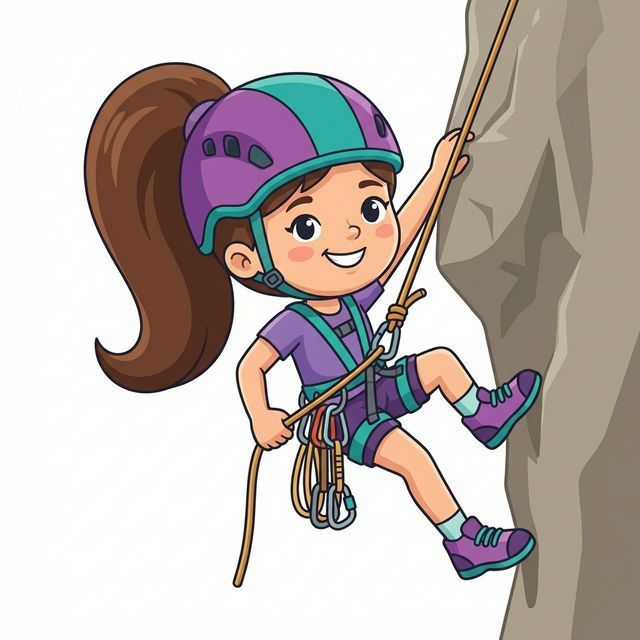
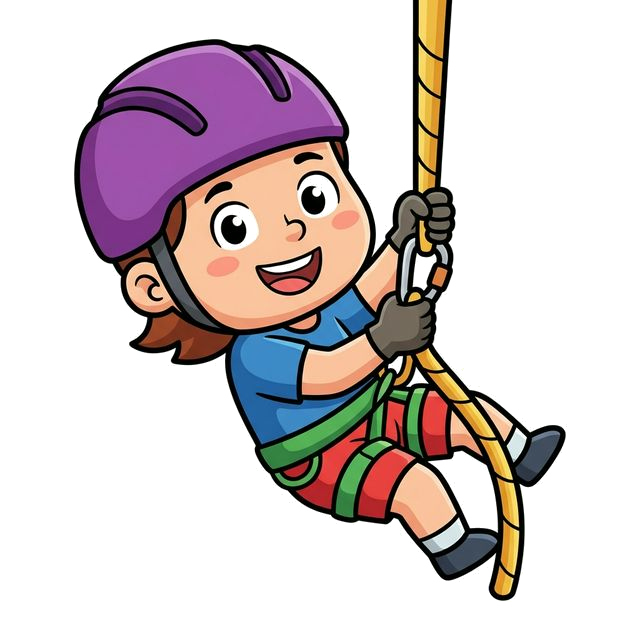
Differentiate mini-games by location, overhaul cartoon characters, and fix asset transparency

diff --git a/src/App.jsx b/src/App.jsx
@@ -255,7 +255,8 @@ export default function App() {
 
   const handleKeyDown = useCallback((e) => {
     // Only allow movement if character is selected
-    if (e.code === 'Space' && !isModalOpen && !victory && !isClimbing && character) {
+    const movementKeys = ['Space', 'ArrowUp', 'ArrowRight', 'ArrowLeft', 'ArrowDown'];
+    if (movementKeys.includes(e.code) && !isModalOpen && !victory && !isClimbing && character) {
       e.preventDefault(); // Prevent scrolling
 
       const nextStep = step + 1;
@@ -328,12 +329,13 @@ export default function App() {
       setIsGameOver(true);
       setCelebrationEffect('failure_anvil');
 
-      // Failure sequence: Anvil drops, wait 3s, then reset game
+      // Failure sequence: Camera shake + Anvil drops, wait 5s, then reset game
+      // Longer wait to see the "squashed" death state clearly
       setTimeout(() => {
         restartGame();
         setIsGameOver(false);
         setCelebrationEffect(null);
-      }, 4000);
+      }, 5000);
 
       setTimeout(() => setIsError(false), 500);
     }
@@ -348,15 +350,15 @@ export default function App() {
     setLocation(null); // Go back to location selection
   };
 
-  // Mini-Game Loop
+  // Mini-Game Loop: Location-Specific Mechanics
   useEffect(() => {
     if (activeMiniGame !== 'gems') return;
 
-    const timer = setInterval(() => {
+    // Movement/Physics Logic
+    const gameTimer = setInterval(() => {
       setMiniGameTime(prev => {
         if (prev <= 0.1) {
-          clearInterval(timer);
-          // Finish game
+          clearInterval(gameTimer);
           setTimeout(() => {
             setActiveMiniGame(null);
             setGems([]);
@@ -366,47 +368,79 @@ export default function App() {
         return prev - 0.1;
       });
 
-      // Spawn Gems (Themed Items)
-      if (Math.random() < 0.2) {
-        setGems(prev => [...prev, {
-          id: Math.random(),
-          src: locationItemMap[location] || '/gem.png',
-          x: Math.random() * 90 + 5,
-          y: -10,
-          speed: Math.random() * 2 + 1.5
-        }]);
-      }
+      setGems(prev => prev.map(gem => {
+        let { x, y, vx, vy, scale } = gem;
 
-      // Move Gems
-      setGems(prev => {
-        return prev.map(gem => ({
-          ...gem,
-          y: gem.y + gem.speed
-        })).filter(gem => gem.y < 110);
-      });
-    }, 100);
-
-    return () => clearInterval(timer);
-  }, [activeMiniGame]);
-
-  // Catch Collision Detection
-  useEffect(() => {
-    if (activeMiniGame !== 'gems') return;
-
-    setGems(prev => {
-      let hit = false;
-      const filtered = prev.filter(gem => {
-        // Simple hit box check
-        const isHit = gem.y > 80 && gem.y < 95 && Math.abs(gem.x - catcherX) < 10;
-        if (isHit) {
-          hit = true;
-          setMiniGameScore(s => s + 10);
+        // Ocean: Rise Up
+        if (location === 'ocean') {
+          y += vy;
         }
-        return !isHit;
-      });
-      return filtered;
-    });
-  }, [catcherX, gems, activeMiniGame]);
+        // Space/Sky/City: Drift Across
+        else if (['space', 'sky', 'city'].includes(location)) {
+          x += vx;
+          y += vy;
+        }
+        // Candy/Castle/Desert: Shrink
+        else if (['candy', 'castle', 'desert'].includes(location)) {
+          scale -= 0.01;
+        }
+
+        return { ...gem, x, y, scale };
+      }).filter(gem => {
+        // Filter out items that leave the screen or vanish
+        if (gem.scale <= 0.1) return false;
+        if (gem.y < -20 || gem.y > 120 || gem.x < -20 || gem.x > 120) return false;
+        return true;
+      }));
+    }, 50);
+
+    const spawnInterval = setInterval(() => {
+      const spawnRate = 0.7;
+      if (Math.random() < spawnRate) {
+        let x, y, vx = 0, vy = 0, scale = 1;
+
+        if (location === 'ocean') {
+          // Bubbles start at bottom
+          x = Math.random() * 80 + 10;
+          y = 110;
+          vy = -(Math.random() * 0.8 + 0.4);
+        } else if (['space', 'sky', 'city'].includes(location)) {
+          // Stars drift from left or right
+          const fromLeft = Math.random() > 0.5;
+          x = fromLeft ? -10 : 110;
+          y = Math.random() * 70 + 10;
+          vx = fromLeft ? (Math.random() * 0.5 + 0.2) : -(Math.random() * 0.5 + 0.2);
+          vy = (Math.random() - 0.5) * 0.2;
+        } else {
+          // Default: Blitz or Rush
+          x = Math.random() * 80 + 10;
+          y = Math.random() * 60 + 20;
+          if (['candy', 'castle', 'desert'].includes(location)) {
+            scale = 1.2;
+          }
+        }
+
+        const newGem = { id: Math.random(), src: locationItemMap[location] || '/gem.png', x, y, vx, vy, scale };
+        setGems(prev => [...prev, newGem]);
+
+        if (['mountain', 'volcano', 'jungle'].includes(location)) {
+          setTimeout(() => {
+            setGems(prev => prev.filter(g => g.id !== newGem.id));
+          }, 1500);
+        }
+      }
+    }, 600);
+
+    return () => {
+      clearInterval(gameTimer);
+      clearInterval(spawnInterval);
+    };
+  }, [activeMiniGame, location]);
+
+  const handleGemClick = (gemId) => {
+    setMiniGameScore(s => s + 50);
+    setGems(prev => prev.filter(g => g.id !== gemId));
+  };
 
   // Mini-Game Controls
   useEffect(() => {
@@ -431,6 +465,7 @@ export default function App() {
   };
 
   const characters = [
+    { id: 'girl', name: 'Climber', src: '/girl.png' },
     { id: 'mountain_goat', name: 'Goat', src: '/mountain_goat.png', location: 'mountain' },
     { id: 'flame_golem', name: 'Golem', src: '/flame_golem.png', location: 'volcano' },
     { id: 'emerald_monkey', name: 'Monkey', src: '/emerald_monkey.png', location: 'jungle' },
@@ -476,9 +511,8 @@ export default function App() {
 
               const handleLocationSelect = () => {
                 setLocation(loc.id);
-                // Auto-pick character (1:1 match)
-                const match = characters.find(c => c.location === loc.id);
-                setCharacter(match ? match.id : characters[0].id);
+                // Allow user to pick their character
+                setCharacter(null);
               };
 
               return (
@@ -555,8 +589,8 @@ export default function App() {
                 onClick={() => setCharacter(char.id)}
                 className="group flex flex-col items-center gap-4 relative w-full"
               >
-                <div className="w-32 h-32 bg-white/10 backdrop-blur-md rounded-2xl flex items-center justify-center p-2 border border-white/20 group-hover:border-cyan-400 group-hover:bg-cyan-500/20 group-hover:shadow-[0_0_30px_rgba(34,211,238,0.5)] transition-all duration-300">
-                  <img src={char.src} alt={char.name} className="w-full h-full object-contain filter drop-shadow-lg" />
+                <div className="w-32 h-32 bg-white/20 backdrop-blur-md rounded-2xl flex items-center justify-center p-2 border border-white/20 group-hover:border-cyan-400 group-hover:bg-cyan-500/20 group-hover:shadow-[0_0_30px_rgba(34,211,238,0.5)] transition-all duration-300 overflow-hidden">
+                  <img src={char.src} alt={char.name} className="w-full h-full object-contain filter drop-shadow-xl" />
                 </div>
                 <span className="text-xl font-bold text-gray-200 group-hover:text-cyan-300 transition-colors uppercase tracking-wider">{char.name}</span>
               </motion.button>
@@ -582,7 +616,7 @@ export default function App() {
         } : {}}
       />
 
-      <div className="absolute inset-0 z-0 pointer-events-none" style={{ isolation: 'isolate' }}>
+      <div className="absolute inset-0 z-0 pointer-events-none" style={{ isolation: 'auto' }}>
         {/* Climber */}
         <motion.div
           className="absolute w-24 h-24 z-10"
@@ -594,14 +628,16 @@ export default function App() {
           <img
             src={`/${character}.png`}
             alt="Climber"
-            className="w-full h-full object-contain mix-blend-multiply brightness-[1.1] contrast-[1.1]"
+            className={clsx(
+              "w-full h-full object-contain",
+              isGameOver && "grayscale-[1] brightness-[0.3]"
+            )}
             style={isGameOver ? {
               position: 'relative',
               top: '50%',
-              transform: 'scaleY(0.05) translateY(100%)',
+              transform: 'scaleY(0.12) translateY(300%)',
               opacity: 0.9,
-              filter: 'grayscale(1) brightness(0.5)',
-              transition: 'all 0.1s ease-out'
+              transition: 'all 0.15s cubic-bezier(0.175, 0.885, 0.32, 1.275)'
             } : {}}
           />
         </motion.div>
@@ -627,10 +663,10 @@ export default function App() {
                   animate={{ y: "45vh" }}
                   exit={{ opacity: 0 }}
                   transition={{
-                    y: { type: 'spring', stiffness: 200, damping: 15 },
-                    duration: 0.6
+                    y: { type: 'spring', stiffness: 400, damping: 10 },
+                    duration: 0.4
                   }}
-                  className="absolute w-64 h-64 object-contain z-50 mix-blend-multiply brightness-[1.1] contrast-[1.1]"
+                  className="absolute w-72 h-72 object-contain z-50 mix-blend-multiply brightness-[1.1] contrast-[1.1]"
                 />
                 <motion.div
                   initial={{ scale: 0, opacity: 0 }}
@@ -638,11 +674,11 @@ export default function App() {
                   transition={{ delay: 0.5 }}
                   className="absolute inset-0 flex flex-col items-center justify-center z-[60] pointer-events-none"
                 >
-                  <h2 className="text-8xl font-black text-white drop-shadow-[0_10px_10px_rgba(0,0,0,0.8)] animate-bounce">
-                    GAME OVER
+                  <h2 className="text-8xl font-black text-white drop-shadow-[0_10px_20px_rgba(0,0,0,1)] animate-bounce italic">
+                    WHACKED!
                   </h2>
-                  <p className="text-4xl font-bold text-red-500 bg-black/40 px-6 py-2 rounded-full mt-4">
-                    TRY AGAIN!
+                  <p className="text-4xl font-bold text-red-500 bg-black/60 px-8 py-3 rounded-full mt-6 backdrop-blur-sm border-2 border-red-500/30">
+                    GET SLAMMED!
                   </p>
                 </motion.div>
               </>
@@ -661,7 +697,7 @@ export default function App() {
                       rotate: 360 * (Math.random() > 0.5 ? 1 : -1)
                     }}
                     transition={{ duration: 2 + Math.random(), delay: i * 0.1, ease: "linear" }}
-                    className="absolute w-28 h-28 object-contain mix-blend-multiply brightness-[1.1] contrast-[1.1]"
+                    className="absolute w-28 h-28 object-contain pointer-events-none"
                   />
                 ))}
               </div>
@@ -880,34 +916,33 @@ export default function App() {
               </div>
             </div>
 
-            {/* Gems (Themed Items) */}
-            {gems.map(gem => (
-              <motion.img
-                key={gem.id}
-                src={gem.src}
-                className="absolute w-20 h-20 object-contain z-10 mix-blend-multiply brightness-[1.15] contrast-[1.2]"
-                style={{ left: gem.x + "%", top: gem.y + "%" }}
-              />
-            ))}
-
-            {/* Player / Catcher */}
-            <motion.div
-              className="absolute bottom-10 w-32 h-32 z-20 flex flex-col items-center"
-              animate={{ left: catcherX + "%" }}
-              transition={{ type: 'spring', stiffness: 300, damping: 30 }}
-              style={{ x: "-50%" }}
-            >
-              <img
-                src={`/${character}.png`}
-                alt="Catcher"
-                className="w-full h-full object-contain filter drop-shadow-lg mix-blend-multiply brightness-[1.1] contrast-[1.1]"
-              />
-              <div className="w-110% h-4 bg-cyan-400/30 blur-md rounded-full mt-[-10px]" />
-            </motion.div>
+            {/* Gems (Blitz Items) */}
+            <div className="absolute inset-0 z-10">
+              <AnimatePresence>
+                {gems.map(gem => (
+                  <motion.img
+                    key={gem.id}
+                    src={gem.src}
+                    initial={{ scale: 0, opacity: 0, rotate: -45 }}
+                    animate={{ scale: 1.2, opacity: 1, rotate: 0 }}
+                    exit={{ scale: 0, opacity: 0, rotate: 45 }}
+                    whileHover={{ scale: 1.4 }}
+                    whileTap={{ scale: 0.8 }}
+                    onClick={() => handleGemClick(gem.id)}
+                    className="absolute w-24 h-24 object-contain cursor-pointer drop-shadow-[0_0_15px_rgba(255,255,255,0.5)] active:brightness-150"
+                    style={{
+                      left: gem.x + "%",
+                      top: gem.y + "%",
+                      transform: `scale(${gem.scale || 1})`
+                    }}
+                  />
+                ))}
+              </AnimatePresence>
+            </div>
 
             {/* Controls Info */}
-            <div className="absolute bottom-4 left-1/2 -translate-x-1/2 text-white/40 font-bold uppercase tracking-[0.2em] text-xs">
-              Use Left & Right Arrows to Move
+            <div className="absolute bottom-10 left-1/2 -translate-x-1/2 text-cyan-400 font-black uppercase tracking-[0.3em] text-xl bg-black/40 px-8 py-3 rounded-full border border-cyan-500/30 backdrop-blur-sm animate-pulse">
+              TAP THE GEMS FAST!
             </div>
 
             {/* Finish Overlay */}
